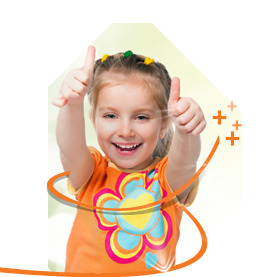
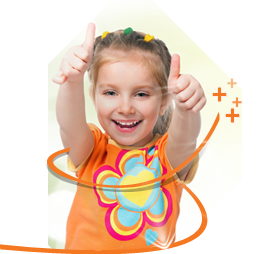
Retoques Finais

Changed region(s): [[0.1455, 0.0551, 0.9018, 1.0], [0.0, 0.9646, 0.2327, 1.0], [0.2327, 0.9094, 0.2618, 0.9646]]

diff --git a/public/stylesheets/internal.css b/public/stylesheets/internal.css
@@ -61,18 +61,16 @@ body
 {
 	position:relative;
 	/*background-image:url(../images/bg_home.jpg);*/
-	background-image:url(../images/bg_all_top.jpg);
+	background-image:url(../images/bg_teste.png);
 	background-repeat:repeat-x;
 	background-position:top center;		
 	width:100%;
 	height:100%;
-	background-color:#f1fcff;;
+	background-color:#6cc6e4;;
 }
 #GeneralbgFooter
 {
-	background-image:url(../images/bg_all_bot.jpg);
-	/*background-repeat:repeat-x;*/
-	background-position:top center;		
+	
 	position:relative;
 	width:100%;
 	margin:auto;
@@ -535,7 +533,7 @@ body
 					width:277px;
 					z-index:10;
 					position:absolute;
-					margin-top:-250px;					
+					margin-top:-219px;					
 					margin-left:6px;
 					}
 																																																		

diff --git a/public/stylesheets/atendimento.css b/public/stylesheets/atendimento.css
@@ -23,12 +23,29 @@
 #comp_form select{
 	margin-bottom:6px;
 	width:338px;
+	-moz-border-radius:5px;
+    -webkit-border-radius:5px;
+    border-radius:5px;
 	}
 	
 #comp_form input{
 	margin-bottom:6px;
 	width:332px;
+	-moz-border-radius:5px;
+    -webkit-border-radius:5px;
+    border-radius:5px;
 	}
 
 @media screen and (-webkit-min-device-pixel-ratio:0) {
  #comp_form input { margin-bottom:3px; }	}
+ 
+ #comp_form textarea{
+	-moz-border-radius:5px;
+    -webkit-border-radius:5px;
+    border-radius:5px; 
+ }
+ 
+ .bt_enviar{
+	 float:right;
+	 margin-right:-35px;
+	 }

diff --git a/public/stylesheets/internaldepo.css b/public/stylesheets/internaldepo.css
@@ -9,3 +9,11 @@
 	margin-top:20px;
 	margin-right:20px;
 	}
+
+#Image_internal{
+					width:277px;
+					z-index:10;
+					position:absolute;
+					margin-top:-194px;					
+					margin-left:6px;
+					}

diff --git a/public/stylesheets/produtos_show.css b/public/stylesheets/produtos_show.css
@@ -1,0 +1,10 @@
+#Box_left .produto{
+	margin-left:50px;
+
+	}
+
+#Right_content ul li{
+	margin-top:10px;
+	display:inline-block;
+	margin-right:20px;
+	}

diff --git a/public/stylesheets/produtos.css b/public/stylesheets/produtos.css
@@ -67,3 +67,4 @@
 		margin-top:-435px;
 		margin-left:8px;
 	}
+
